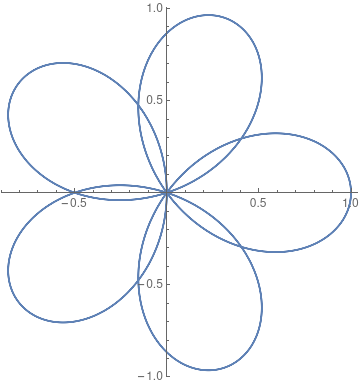
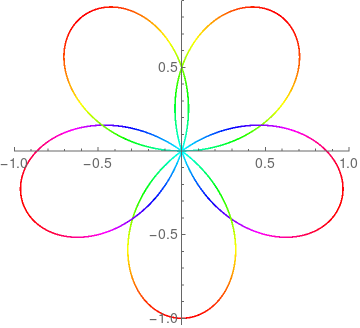
c6 : 支持 MMA 图片格式输入，支持 GIF 格式输出

diff --git a/kernel.py b/kernel.py
@@ -1,15 +1,9 @@
-import time
 from graia.application.message.elements.internal import Plain, Image
+
+import time
 
 from functions import *
 from initialize import help
-
-
-def code(command):
-    return command[(command + '\n').find('\n'):].strip('\n')
-
-def options(firstLine):
-    return firstLine[(firstLine + ' ').find(' '):].strip(' ')
 
 
 def kernel(fullCommand, id):
@@ -28,42 +22,39 @@ def kernel(fullCommand, id):
         elif (regularQ(firstLine, "mathematica", "ma") or 
               regularQ2(firstLine, "mma") or regularQ2(firstLine, "wl")):
             fileName = writeFile(id, ".wl", code(command))
-            coreCMD = 'wolframscript -print all -f "' + fileName + '"'
 
             firstOption = options(firstLine + '..')[:2]
             if firstOption == '-p':
-                imgName = fileName[:-3] + '.png'
-                runCMD(coreCMD + ' -format PNG > "' + imgName + '"', id, options(firstLine))
-                print('>> ', imgName)
-                time.sleep(2)
-                result = Image.fromLocalFile(imgName)
+                result = exportPicture(fileName, 'PNG', firstLine)
+            if firstOption == '-g':
+                result = exportPicture(fileName, 'GIF', firstLine)
             else:
-                ans = runCMD(coreCMD, id, options(firstLine))
+                ans = runCMD(coreCMD(fileName), id, options(firstLine))
+                
+        # pip install
+        elif firstLine.startswith("pip install"):
+            ans = runCMD('pip3 ' + options(firstLine), id, '')
         
         # ExecuteBash (esh)
         elif regularQ2(firstLine, "bash") or regularQ2(firstLine, "sh"):
             if permissionQ(id):
                 fileName = writeFile(id, ".sh", code(command))
                 ans = runCMD('bash "' + fileName + '"', id, options(firstLine))
-                
-        # pip install
-        elif firstLine.startswith("pip install"):
-            ans = runCMD('pip3 ' + options(firstLine), id, '')
         
         # help
-        elif firstLine.startswith("help"):
-            ans = help
+        elif firstLine == "help":
+            ans = help.strip('\n')
 
         else:
             return 0
 
-        if len(ans) > 2000 and options(firstLine).find('-o') < 0:
+        if len(ans) > 1000 and options(firstLine).find('-o') < 0:
             if permissionQ(id):
-                raise RuntimeError('Length > 2000')
+                raise RuntimeError('Length > 1000')
 
-        if len(ans.split('\n')) > 50 and options(firstLine).find('-o') < 0:
+        if len(ans.split('\n')) > 40 and options(firstLine).find('-o') < 0:
             if permissionQ(id):
-                raise RuntimeError('Rows > 50')
+                raise RuntimeError('Rows > 40')
         
     except Exception as ex:
         ans = str(ex)
@@ -72,6 +63,27 @@ def kernel(fullCommand, id):
     # print(ans)
     if result == 1:
         result = Plain(ans)
+    return result
+
+
+
+def code(command):
+    return command[(command + '\n').find('\n'):].strip('\n')
+
+def options(firstLine):
+    return firstLine[(firstLine + ' ').find(' '):].strip(' ')
+
+
+def coreCMD(fileName):
+    return 'wolframscript -print all -f "' + fileName + '"'
+
+def exportPicture(fileName, suffix, firstLine):
+    imgName = fileName[:-3] + '.' + suffix.lower()
+    CMD = coreCMD(fileName) + ' -format ' + suffix + ' > "' + imgName + '"'
+    runCMD(CMD, id, options(firstLine))
+    print('>> ', imgName)
+    time.sleep(2)
+    result = Image.fromLocalFile(imgName)
     return result
 
 

diff --git a/initialize.py b/initialize.py
@@ -1,7 +1,27 @@
-import asyncio
 from graia.broadcast import Broadcast
 from graia.application.session import Session
 from graia.application import GraiaMiraiApplication
+from graia.application.message.chain import MessageChain
+from graia.application.message.elements.internal import Plain
+
+import asyncio
+
+
+# 过滤输入，图片解释为 MMA 格式
+def normalize(message):
+    try:
+        valid = []
+        for e in list(message)[1:]:
+            if 'Plain' in str(e.type):
+                valid.append(e)
+            if 'Image' in str(e.type):
+                valid.append(Plain('Import["' + str(e.url) + '"]'))
+        ans = MessageChain.create(valid).asDisplay()
+        return ans
+    
+    except:
+        raise RuntimeError('Interpret Error')
+    
 
 
 loop = asyncio.get_event_loop()
@@ -18,17 +38,15 @@ app = GraiaMiraiApplication(
 )
 
 
-rawHelp = [
-    ["1", "epy" , "ExecutePython3"],
-    ["2-1", "ema" , "ExecuteMathematica"],
-    ["2-2", "ema -p ", "以图片格式返回"],
-    ["3", "pip install" , "Python 库安装"],
-    ["4", "esh", "ExecuteBash（需要权限）"],
-    ["5", "help" , "帮助"] # ,
-    # ["6", "about", "关于"]
-]
-
-help = '\n'.join(['[' + l[0] + '] ' + l[1] + '  : ' + l[2] for l in rawHelp])
+help = '''
+[1] epy : ExecutePython3
+[2-1] ema : ExecuteMathematica
+[2-2] ema -p : 以 PNG 格式返回
+[3] pip install : Python 库安装
+[4] esh : ExecuteBash（需要权限）
+[5] help : 帮助
+项目地址 : https://github.com/GWDx/mado
+'''
 
 
 if __name__=='__main__':

diff --git a/c6.py b/c6.py
@@ -1,7 +1,7 @@
-from graia.application import GraiaMiraiApplication
-from graia.application.message.chain import MessageChain
 from graia.application.friend import Friend
 from graia.application.group import Group, Member
+from graia.application import GraiaMiraiApplication
+from graia.application.message.chain import MessageChain
 from graia.application.message.elements.internal import Plain
 
 from kernel import *
@@ -14,7 +14,7 @@ async def friend_message_listenerasync(
     app: GraiaMiraiApplication, 
     friend: Friend
 ):
-    command = message.asDisplay()
+    command = normalize(message)
     result = kernel(command, str(friend.id))
     if result != 0:
         try:
@@ -30,7 +30,7 @@ async def group_message_handler(
     app: GraiaMiraiApplication, 
     group: Group, member: Member
 ):
-    command = message.asDisplay()
+    command = normalize(message)
     result = kernel(command, str(group.id) + '-' + str(member.id))
     if result != 0:
         try:

diff --git a/README.md b/README.md
@@ -1,10 +1,11 @@
 # mado
 
-> 基于 mirai, Graia 的 QQ 机器人
+基于 mirai, Graia 的 QQ 机器人
 
 ### 特点
 
 + 可以执行 python3 和 Mathematica 代码（通过调用 python 和 wolframscript）
++ 支持图片格式输入 Mathematica 代码，支持 PNG/GIF 输出 Mathematica 计算结果
 + 可以给出错误提示，有执行时间限制
 + 支持好友访问和群访问
 
@@ -17,20 +18,21 @@
 
 ### (1)
 
-  | 指令                      | 含义                             |
-  |:--------------------------|:---------------------------------|
-  | **epy** *opts*  \n *code* | ExecutePython3                   |
-  | **ema** *opts*  \n *code* | ExecuteMathematica               |
+  | 指令                       |含义                          |
+  |:--------------------------|:----------------------------|
+  | **epy** *opts*  \n *code* | ExecutePython3              |
+  | **ema** *opts*  \n *code* | ExecuteMathematica          |
   | **esh** *opts*  \n *code* | ExecuteBash（需要权限，存在漏洞）|
-  | **pip install** *opts*    | Python 库安装                    |
-  | **help**                  | 帮助                             |
+  | **pip install** *opts*    | Python 库安装                |
+  | **help**                  | 帮助                         |
 
 ### (2)
 
-  |选项              |含义                                    |
-  |:-----------------|:---------------------------------------|
-  | **-p**           |以图片格式返回（**ema** 专用）          |
-  | **-t** *seconds* |修改时间限制（默认 15 秒，需要权限）    |
+  |选项               |含义                            |
+  |:-----------------|:------------------------------|
+  | **-p**           |以 PNG 格式返回（**ema** 专用）    |
+  | **-g**           |以 GIF 格式返回（**ema** 专用）    |
+  | **-t** *seconds* |修改时间限制（默认 15 秒，需要权限）  |
   | **-o**           |不对输出字符数及行数进行限制（需要权限）|
 
 ## 示例
@@ -70,16 +72,17 @@ f[100]
 + (2) 图像格式输出
 ```
 ema -p
-PolarPlot[Cos[5t/3],{t,0,6Pi}]
+PolarPlot[Sin[5t/3],{t,0,6Pi},ColorFunction->(Hue@#4 &)]
 ```
-结果为：![](./PolarPlot.png)
+结果为：
+![](https://github.com/GWDx/mado/blob/master/ema%20-p.png)
 
 
 ## 作出贡献
 
-> 欢迎提出建议，欢迎 pull request
+欢迎提出建议，欢迎 pull request
 
-> 项目地址：<https://github.com/GWDx/mado>
+项目地址：<https://github.com/GWDx/mado>
 
 
 ## 关于协议
